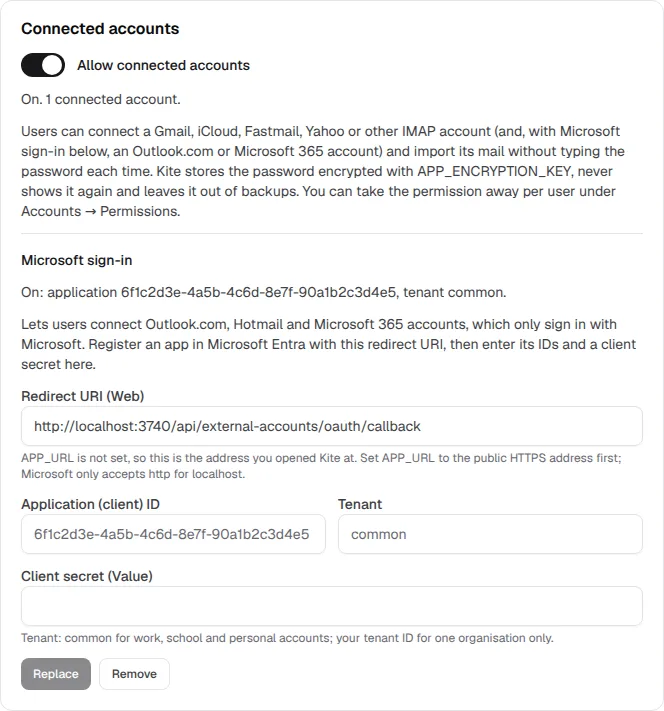
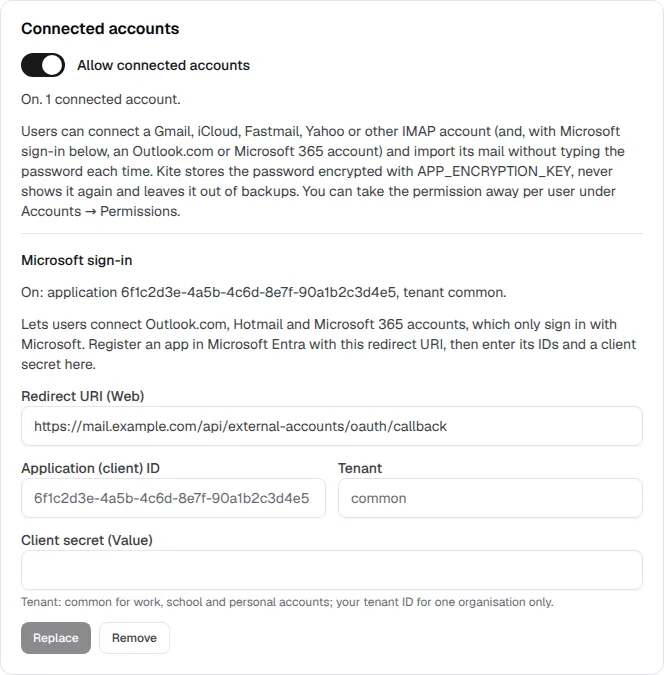
Security review fixes for Sign in with Microsoft
- A reconnect writes the new refresh token and bumps oauth_token_version in one
  statement, so a refresh that started before it fails its compare-and-swap
  instead of storing its older token over the reconnect's.
- The connected address is the sign-in name (preferred_username), never a plain
  email claim; email counts only with xms_edov. The ID token's tid must be a
  GUID that fits the registration's tenant and iss must be that tenant's v2.0
  issuer. oauth_subject records <tid>:<oid>.
- Reconnect requires the same address and the same recorded tenant and user id.
- Import parsers never read an access token from the request body; a connected
  OAuth account's token is passed in from core's login as its own argument.
- e2e waits for the Connected accounts page to load before clicking.
- Admin screenshot shows a realistic redirect URI; docs add the Exchange admin
  check (IMAP and Authenticated SMTP per mailbox) as a setup step and explain
  which account Kite connects.

diff --git a/src/lib/external-accounts/oauth-utils.ts b/src/lib/external-accounts/oauth-utils.ts
@@ -273,31 +273,57 @@ export function grantsImap(scopes: string): boolean {
 	return scopes.split(/\s+/).some((scope) => /(^|\/)IMAP\.AccessAsUser\.All$/i.test(scope));
 }
 
-export type IdTokenClaims = { address: string; subject: string };
+/** `subject` is `<tid>:<oid>`: the user's id is only unique within its tenant, so both are kept and compared. */
+export type IdTokenClaims = { address: string; subject: string; tenantId: string };
 
-/**
- * The address and stable user id the ID token names. The token came straight from Microsoft's token endpoint over
- * TLS, so its signature need not be checked (OpenID Connect Core §3.1.3.7); its audience must still be this app.
- * The address is `email`, else `preferred_username` (spec §15.2); the subject `oid`, else `sub`.
- */
-export function idTokenClaims(idToken: string | null, clientId: string): IdTokenClaims | null {
+/** The tenant of every personal Microsoft account (Outlook.com, Hotmail). */
+const CONSUMER_TENANT_ID = "9188040d-6c67-4c5b-b112-36a304b66dad";
+
+function decodeJwtPayload(idToken: string | null): Record<string, unknown> | null {
 	const payload = idToken?.split(".")[1];
 	if (!payload) return null;
-	let claims: Record<string, unknown>;
 	try {
 		const base64 = payload.replace(/-/g, "+").replace(/_/g, "/");
 		const binary = atob(base64.padEnd(base64.length + ((4 - (base64.length % 4)) % 4), "="));
-		claims = JSON.parse(new TextDecoder().decode(Uint8Array.from(binary, (char) => char.charCodeAt(0))));
+		const claims = JSON.parse(new TextDecoder().decode(Uint8Array.from(binary, (char) => char.charCodeAt(0))));
+		return claims && typeof claims === "object" ? (claims as Record<string, unknown>) : null;
 	} catch {
 		return null;
 	}
+}
+
+/** Whether the token's tenant fits the registration's: its own id, personal only, or work and school only. */
+function tenantMatches(tid: string, tenant: string): boolean {
+	if (GUID.test(tenant)) return tid === tenant.toLowerCase();
+	if (tenant === "consumers") return tid === CONSUMER_TENANT_ID;
+	if (tenant === "organizations") return tid !== CONSUMER_TENANT_ID;
+	return true;
+}
+
+const asAddress = (value: unknown) => {
+	const text = typeof value === "string" ? value.trim().toLowerCase() : "";
+	return /^[^\s@]+@[^\s@]+\.[^\s@]+$/.test(text) ? text : null;
+};
+
+/**
+ * The address, tenant and stable user id the ID token names. The token came straight from Microsoft's token endpoint
+ * over TLS, so its signature need not be checked (OpenID Connect Core §3.1.3.7); its audience must be this app, and
+ * its issuer the v2.0 issuer of the tenant it names, which must fit the registration's tenant. The address is the
+ * name the user signed in as (`preferred_username`: the UPN of a work or school account, the sign-in address of a
+ * personal one), never a plain `email` claim, which with the `common` endpoint can be an unverified value an
+ * organisation set (spec §15.2); `email` counts only when Microsoft marks its domain verified (`xms_edov`). The IMAP
+ * sign-in with that address is still the proof that it is the mailbox's.
+ */
+export function idTokenClaims(idToken: string | null, clientId: string, tenant = "common"): IdTokenClaims | null {
+	const claims = decodeJwtPayload(idToken);
+	if (!claims) return null;
 	if (typeof claims.aud !== "string" || claims.aud.toLowerCase() !== clientId.toLowerCase()) return null;
-	const candidates = [claims.email, claims.preferred_username];
-	const address = candidates
-		.map((value) => (typeof value === "string" ? value.trim().toLowerCase() : ""))
-		.find((value) => /^[^\s@]+@[^\s@]+\.[^\s@]+$/.test(value));
-	const subject = [claims.oid, claims.sub].find((value): value is string => typeof value === "string" && !!value);
-	return address && subject ? { address, subject } : null;
+	const tid = typeof claims.tid === "string" ? claims.tid.toLowerCase() : "";
+	if (!GUID.test(tid) || !tenantMatches(tid, tenant)) return null;
+	if (claims.iss !== `https://login.microsoftonline.com/${tid}/v2.0`) return null;
+	const address = asAddress(claims.preferred_username) ?? (claims.xms_edov === true ? asAddress(claims.email) : null);
+	const user = [claims.oid, claims.sub].find((value): value is string => typeof value === "string" && !!value);
+	return address && user ? { address, subject: `${tid}:${user}`, tenantId: tid } : null;
 }
 
 /** Whether a cached access token must be refreshed first: none, unknown expiry, or within the margin. */

diff --git a/src/lib/external-accounts/oauth-flow.ts b/src/lib/external-accounts/oauth-flow.ts
@@ -15,6 +15,7 @@ import {
 	oauthTablesReady,
 	type OAuthStatePayload,
 	pruneOAuthStates,
+	readOAuthSubject,
 	takeOAuthState,
 	writeAccountOAuth,
 } from "./oauth-store";
@@ -264,7 +265,7 @@ async function redeemCode(env: CloudflareEnv, pending: PendingSignIn, code: stri
 		logger.warn("external.oauth.code_refused", { kind: tokenError.kind, code: tokenError.code });
 		throw new CallbackFailure("token");
 	});
-	const claims = idTokenClaims(tokens.idToken, client.clientId);
+	const claims = idTokenClaims(tokens.idToken, client.clientId, client.tenant);
 	if (!claims) throw new CallbackFailure("no_address");
 	if (!tokens.refreshToken) throw new CallbackFailure("no_refresh_token");
 	if (!grantsImap(tokens.scopes)) throw new CallbackFailure("scopes");
@@ -315,12 +316,14 @@ async function insertMicrosoftAccount(
 	return id;
 }
 
-/** A reconnect: the new refresh token replaces the old one, and checking starts again at the next tick. */
-async function renewAccount(env: CloudflareEnv, actor: AccountActor, accountId: string, sealedRefreshToken: string) {
+/**
+ * A reconnect: the account is active again and checking starts at the next tick. The new refresh token is written by
+ * `writeAccountOAuth`, with the version bump, so an older refresh still in flight cannot overwrite it.
+ */
+async function renewAccount(env: CloudflareEnv, actor: AccountActor, accountId: string) {
 	await getDb(env)
 		.update(externalAccounts)
 		.set({
-			secret: sealedRefreshToken,
 			status: "active",
 			statusReason: null,
 			lastError: null,
@@ -330,6 +333,20 @@ async function renewAccount(env: CloudflareEnv, actor: AccountActor, accountId: 
 			updatedAt: new Date(),
 		})
 		.where(and(eq(externalAccounts.id, accountId), eq(externalAccounts.userId, actor.id)));
+}
+
+/**
+ * A reconnect must sign in as the account it renews: the same address, and the same tenant and user id once one was
+ * recorded (an address can be reassigned to another user, or exist in another tenant).
+ */
+async function sameMicrosoftAccount(
+	env: CloudflareEnv,
+	row: ExternalAccountRow,
+	claims: { address: string; subject: string },
+): Promise<boolean> {
+	if (!sameMailAddress(row.address, claims.address)) return false;
+	const recorded = await readOAuthSubject(env, row.id);
+	return recorded === null || recorded === claims.subject;
 }
 
 const rowServers = (row: ExternalAccountRow): ServerPair => ({
@@ -350,7 +367,7 @@ async function complete(
 	await assertAllowed(env, actor.id);
 	const { tokens, claims } = await redeemCode(env, pending, code);
 	const reconnecting = pending.accountId ? await ownAccount(env, actor.id, pending.accountId) : null;
-	if (reconnecting && !sameMailAddress(reconnecting.address, claims.address))
+	if (reconnecting && !(await sameMicrosoftAccount(env, reconnecting, claims)))
 		throw new CallbackFailure("different_account");
 	if (!reconnecting) {
 		await assertNotKiteDomain(env, claims.address);
@@ -375,8 +392,9 @@ async function complete(
 			sealedRefreshToken,
 			now: new Date(),
 		}));
-	if (reconnecting) await renewAccount(env, actor, accountId, sealedRefreshToken);
+	if (reconnecting) await renewAccount(env, actor, accountId);
 	await writeAccountOAuth(env, accountId, {
+		sealedRefreshToken,
 		sealedAccessToken: await sealSetting(env, tokens.accessToken),
 		expiresAt: tokens.expiresAt,
 		scopes: tokens.scopes,

diff --git a/src/lib/external-accounts/oauth-store.ts b/src/lib/external-accounts/oauth-store.ts
@@ -208,17 +208,36 @@ export async function storeRefreshedTokens(
 	return Number(result.meta?.changes ?? 0) === 1;
 }
 
-/** The OAuth columns of a connect or reconnect, written after the row's own columns; bumps the version. */
+/**
+ * The tokens of a connect or reconnect, written after the row's own columns: the refresh token and the version bump
+ * go in the same statement, so a refresh that started before the reconnect fails its compare-and-swap and can never
+ * store its older token over this one.
+ */
 export async function writeAccountOAuth(
 	env: StoreEnv,
 	accountId: string,
-	values: { sealedAccessToken: string; expiresAt: Date; scopes: string; subject: string },
+	values: { sealedRefreshToken: string; sealedAccessToken: string; expiresAt: Date; scopes: string; subject: string },
 ): Promise<void> {
 	await env.DB.prepare(
-		"UPDATE external_accounts SET oauth_access_token = ?, oauth_expires_at = ?, oauth_scopes = ?, oauth_subject = ?, oauth_token_version = oauth_token_version + 1 WHERE id = ?",
+		"UPDATE external_accounts SET secret = ?, oauth_access_token = ?, oauth_expires_at = ?, oauth_scopes = ?, oauth_subject = ?, oauth_token_version = oauth_token_version + 1 WHERE id = ?",
 	)
-		.bind(values.sealedAccessToken, toSeconds(values.expiresAt), values.scopes, values.subject, accountId)
+		.bind(
+			values.sealedRefreshToken,
+			values.sealedAccessToken,
+			toSeconds(values.expiresAt),
+			values.scopes,
+			values.subject,
+			accountId,
+		)
 		.run();
+}
+
+/** The `<tid>:<oid>` the account was connected as, or null (never recorded). */
+export async function readOAuthSubject(env: StoreEnv, accountId: string): Promise<string | null> {
+	const row = await env.DB.prepare("SELECT oauth_subject AS subject FROM external_accounts WHERE id = ?")
+		.bind(accountId)
+		.first<{ subject: string | null }>();
+	return row?.subject ?? null;
 }
 
 /** Forgets a cached access token, so the next use refreshes (a server refused it). */

diff --git a/src/app/api/import/imap/utils.ts b/src/app/api/import/imap/utils.ts
@@ -4,20 +4,24 @@ import type { ImportDestination } from "@/lib/import/destination-types";
 import type { ImapImportRequest } from "./types";
 
 /**
- * The sign-in of an import request: the user name with the password, or with a connected OAuth account's access token
- * (only `resolveImportSource` sets one, and it replaces the password).
+ * The sign-in of an import request: the user name with the password, or with `accessToken`, a connected OAuth
+ * account's token from core's login (`ConnectedSource.accessToken`), which replaces the password. A token is never
+ * read from the request body.
  */
 export function parseImapSignIn(
-	input: Pick<ImapImportRequest, "username" | "password" | "accessToken">,
+	input: Pick<ImapImportRequest, "username" | "password">,
+	accessToken?: string,
 ): Pick<ImapImportInput, "username" | "password" | "accessToken"> {
 	const username = input.username?.trim() ?? "";
 	const password = input.password ?? "";
-	const accessToken = typeof input.accessToken === "string" && input.accessToken ? input.accessToken : undefined;
 	if (!username || (!password && !accessToken)) throw new Error("IMAP username and password are required");
 	return { username, password, ...(accessToken ? { accessToken } : {}) };
 }
 
-export function parseImapImportRequest(input: ImapImportRequest): ImapImportInput & {
+export function parseImapImportRequest(
+	input: ImapImportRequest,
+	accessToken?: string,
+): ImapImportInput & {
 	mailboxId: string;
 	destination: ImportDestination;
 } {
@@ -37,7 +41,7 @@ export function parseImapImportRequest(input: ImapImportRequest): ImapImportInpu
 		host,
 		port,
 		secure: input.secure ?? port === 993,
-		...parseImapSignIn(input),
+		...parseImapSignIn(input, accessToken),
 		folder,
 		limit,
 		offset,

diff --git a/src/app/api/import/connected-account.ts b/src/app/api/import/connected-account.ts
@@ -11,11 +11,13 @@ type SourceFields = {
 	secure: boolean;
 	username: string;
 	password: string;
-	/** Set for an OAuth account; undefined otherwise, so a token sent with the request never survives the merge. */
-	accessToken: string | undefined;
 };
 
-export type ConnectedSource = { fields: SourceFields; externalAccountId: string };
+/**
+ * A connected account's login for one request. `accessToken` (an OAuth account) never travels in the request body:
+ * the parsers take it as its own argument, so a token can only come from core's login, never from the client.
+ */
+export type ConnectedSource = { fields: SourceFields; externalAccountId: string; accessToken?: string };
 
 /**
  * An import from a connected account (spec §9.2): the request names `accountId` instead of typing a password, and
@@ -48,9 +50,14 @@ async function connectedAccountSource(
 			secure: login.security === "tls",
 			username: login.username,
 			password: login.auth.kind === "password" ? login.auth.password : "",
-			accessToken: login.auth.kind === "xoauth2" ? login.auth.accessToken : undefined,
 		},
+		...(login.auth.kind === "xoauth2" ? { accessToken: login.auth.accessToken } : {}),
 	};
+}
+
+/** The OAuth access token of a connected account's login, or undefined (a password, or no account). */
+export function sourceAccessToken(source: ConnectedSource | null): string | undefined {
+	return source?.accessToken;
 }
 
 /** The request body with a connected account's login filled in, and the account; or the refusal to answer. */

diff --git a/src/app/api/import/jobs/route.ts b/src/app/api/import/jobs/route.ts
@@ -15,7 +15,7 @@ import { createAccountJobResponse } from "./account";
 import { resolveServer } from "./server-check";
 import type { AccountImportJobRequest, ImapImportJobRequest } from "./types";
 import { withModule } from "@/lib/modules/route-guard";
-import { jobSourceFields, resolveImportSource, type ConnectedSource } from "../connected-account";
+import { jobSourceFields, resolveImportSource, type ConnectedSource, sourceAccessToken } from "../connected-account";
 
 export const GET = withModule("import", async (request, { checkUser }) => {
 	const env = getEnv();
@@ -52,7 +52,7 @@ export const POST = withModule("import", async (request, { checkUser }) => {
 		({ body, source } = resolved);
 		if ((body as { scope?: string }).scope === "account")
 			return await createAccountJobResponse(env, request, user, body as unknown as AccountImportJobRequest, source);
-		input = parseImapImportRequest(body);
+		input = parseImapImportRequest(body, sourceAccessToken(source));
 	} catch (error) {
 		const status = error instanceof RequestBodyTooLargeError ? 413 : 400;
 		return Response.json({ error: error instanceof Error ? error.message : "Invalid IMAP import request" }, { status });

diff --git a/src/app/api/import/account/plan/route.ts b/src/app/api/import/account/plan/route.ts
@@ -6,7 +6,7 @@ import { readJsonBody } from "@/lib/http/request";
 import { importServerProblem, planAccountImport } from "@/lib/import/imap";
 import { importSignInGuard, SignInLimitError, signInLimitResponse } from "@/lib/import/sign-in-limit";
 import { withModule } from "@/lib/modules/route-guard";
-import { resolveImportSource } from "../../connected-account";
+import { resolveImportSource, sourceAccessToken } from "../../connected-account";
 import type { ImapFolderListRequest } from "../../imap/folders/types";
 import { parseImapFolderListRequest } from "../../imap/folders/utils";
 
@@ -28,7 +28,7 @@ export const POST = withModule("import", async (request, { checkUser }) => {
 			await readJsonBody<ImapFolderListRequest & { accountId?: unknown }>(request, 16 * 1024),
 		);
 		if ("error" in resolved) return resolved.error;
-		input = parseImapFolderListRequest(resolved.body);
+		input = parseImapFolderListRequest(resolved.body, sourceAccessToken(resolved.source));
 	} catch (error) {
 		const status = error instanceof RequestBodyTooLargeError ? 413 : 400;
 		return NextResponse.json({ error: error instanceof Error ? error.message : "Invalid IMAP request" }, { status });

diff --git a/src/app/api/import/account/sizes/route.ts b/src/app/api/import/account/sizes/route.ts
@@ -9,7 +9,7 @@ import { parseSizeCursor, sizeProgress } from "@/lib/import/folder-size-utils";
 import { importServerProblem } from "@/lib/import/imap";
 import { importSignInGuard, SignInLimitError, signInLimitResponse } from "@/lib/import/sign-in-limit";
 import { withModule } from "@/lib/modules/route-guard";
-import { resolveImportSource } from "../../connected-account";
+import { resolveImportSource, sourceAccessToken } from "../../connected-account";
 import type { ImapFolderListRequest } from "../../imap/folders/types";
 import { parseImapFolderListRequest } from "../../imap/folders/utils";
 
@@ -35,7 +35,7 @@ export const POST = withModule("import", async (request, { checkUser }) => {
 	try {
 		const resolved = await resolveImportSource(auth.user, await readJsonBody<SizesRequest>(request, 16 * 1024));
 		if ("error" in resolved) return resolved.error;
-		input = parseImapFolderListRequest(resolved.body);
+		input = parseImapFolderListRequest(resolved.body, sourceAccessToken(resolved.source));
 		if (typeof resolved.body.folder !== "string" || !resolved.body.folder.trim())
 			throw new Error("A folder is required");
 		folder = resolved.body.folder;

diff --git a/src/app/api/import/jobs/account.ts b/src/app/api/import/jobs/account.ts
@@ -8,7 +8,7 @@ import { createAccountImportJob, serializeImportJob } from "@/lib/import/jobs";
 import { checkImportStart } from "@/lib/import/size-guard";
 import { getMailboxAccessLevel } from "@/lib/mailboxes/access";
 import { parseImapFolderListRequest } from "../imap/folders/utils";
-import { jobSourceFields, type ConnectedSource } from "../connected-account";
+import { jobSourceFields, type ConnectedSource, sourceAccessToken } from "../connected-account";
 import type { AccountImportJobRequest } from "./types";
 
 type SessionUser = Parameters<typeof getMailboxAccessLevel>[1];
@@ -33,7 +33,7 @@ export async function createAccountJobResponse(
 	let folders: ReturnType<typeof parseAccountFolderRequest>;
 	try {
 		if (!body.mailboxId) throw new Error("Mailbox is required");
-		account = parseImapFolderListRequest(body);
+		account = parseImapFolderListRequest(body, sourceAccessToken(source));
 		folders = parseAccountFolderRequest(body.folders);
 	} catch (error) {
 		return Response.json({ error: error instanceof Error ? error.message : "Invalid import request" }, { status: 400 });

diff --git a/src/app/api/import/imap/route.ts b/src/app/api/import/imap/route.ts
@@ -14,7 +14,7 @@ import { getMailboxAccessLevel } from "@/lib/mailboxes/access";
 import type { ImapImportRequest } from "./types";
 import { parseImapImportRequest } from "./utils";
 import { withModule } from "@/lib/modules/route-guard";
-import { resolveImportSource } from "../connected-account";
+import { resolveImportSource, sourceAccessToken } from "../connected-account";
 
 export const POST = withModule("import", async (request, { checkUser }) => {
 	const env = getEnv();
@@ -30,7 +30,7 @@ export const POST = withModule("import", async (request, { checkUser }) => {
 			await readJsonBody<ImapImportRequest & { accountId?: unknown }>(request, 16 * 1024),
 		);
 		if ("error" in resolved) return resolved.error;
-		input = parseImapImportRequest(resolved.body);
+		input = parseImapImportRequest(resolved.body, sourceAccessToken(resolved.source));
 	} catch (error) {
 		const status = error instanceof RequestBodyTooLargeError ? 413 : 400;
 		return NextResponse.json(

diff --git a/scripts/screenshots/changelog.capture.ts b/scripts/screenshots/changelog.capture.ts
@@ -1079,6 +1079,20 @@ const SHOTS: Shot[] = [
 		viewport: { width: 1280, height: 1100 },
 		open: async (page) => {
 			await saveDemoMicrosoftClient();
+			// The e2e server has no APP_URL; show the redirect URI a real install registers.
+			await page.route("**/api/admin/external-accounts/microsoft", async (route) => {
+				if (route.request().method() !== "GET") return route.continue();
+				const response = await route.fetch();
+				const status = (await response.json()) as Record<string, unknown>;
+				await route.fulfill({
+					response,
+					json: {
+						...status,
+						redirectUri: "https://mail.example.com/api/external-accounts/oauth/callback",
+						appUrlSet: true,
+					},
+				});
+			});
 			await page.goto("/general");
 			const card = page.locator("[data-connected-accounts-switch]");
 			await expect(card.locator("[data-microsoft-sign-in-status]")).toContainText("On: application");

diff --git a/e2e/100-microsoft-oauth.spec.ts b/e2e/100-microsoft-oauth.spec.ts
@@ -90,6 +90,9 @@ test("the owner sets up Microsoft sign-in; a user connects, receives, sends, los
 		// The user: Sign in with Microsoft instead of a password field.
 		await routeToFakes(page, imap.port, smtp.port);
 		await page.goto("/settings/connected-accounts");
+		// A cold dev server shows its loading overlay over the page for a while; wait until the page has its data.
+		await page.waitForLoadState("load");
+		await expect(page.getByText("No connected accounts")).toBeVisible({ timeout: 60_000 });
 		await page.getByRole("button", { name: "Connect account" }).click();
 		const dialog = page.getByRole("dialog", { name: "Connect an account" });
 		await dialog.getByLabel("Email address").fill(address);
